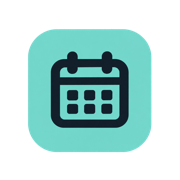
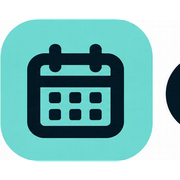
## Rebrand globale CRMEvent completato (colore #0ABAB5 + nuovi loghi) — deploy avviato
**COLORE** ✅ componenti aggiornati: nuovo primario **#0ABAB5** (prima #81D8D0), centralizzato in `tailwind.config.js` (token `tiffany.*` → copre tutte le classi `*-tiffany-*` in tutta l'app, pubblica + autenticata + Super Admin) e in `index.css` (CSS vars `--primary/--ring/--accent`, `::selection`, focus phone-input). Palette derivata: hover #09A6A1, active #088F8A, light #E6F8F7, border #B5EAE8, fg #0A4A47. Aggiornati i pochi hex nei grafici (Dashboard, Support). Verde/rosso/arancio funzionali intatti.

**LOGHI** ✅ asset sostituiti (usati as-is, senza ricolorazione): logo fondo bianco → `logo-crmevent.png` + `logo-footer-light.png`; logo fondo nero → `logo-crmevent-dark.png` + `logo-footer-dark.png`.

**FAVICON** ✅ aggiornata: non essendo stato fornito un file favicon dedicato, il simbolo (icona calendario teal) è stato ricavato ritagliando l'icona dal logo → `favicon.ico` (16/32/48), `favicon-16/32/48/192/512.png`, `apple-touch-icon.png`, `icon-crmevent.png`. Cache-busting `?v=4`. `theme-color` (index.html + manifest) → #0ABAB5.

**EMAIL** ✅ aggiornate (solo branding colore+logo, nessun tocco a contenuti/trigger/destinatari/funnel): `brevo_funnel.py`, `email_utils.py`, `server.py`, `email-templates/prospect-email-1.html`.

**PDF/IMMAGINI** ✅ aggiornati: `social_creative.py` (RGB brand + `_LOGO_PATH` nuovo logo). Nessun logo Evento/Organizzazione toccato.
[…]

diff --git a/frontend/public/email-templates/prospect-email-1.html b/frontend/public/email-templates/prospect-email-1.html
@@ -18,11 +18,11 @@
 <p style="margin:0 0 12px 0;">Staff e volontari su WhatsApp.<br/>Sponsor nelle email.<br/>Turni su Excel.<br/>Hotel e pasti su un altro file.<br/>Briefing e documenti sparsi nelle cartelle.</p>
 <p style="margin:0 0 12px 0;">È proprio da questa situazione che nasce <strong>CRMEvent</strong>.</p>
 <p style="margin:0 0 8px 0;">Un unico spazio pensato per chi organizza eventi sportivi, dove gestire:</p>
-<p style="margin:0 0 16px 0;color:#147D74;font-weight:600;">Eventi · Staff · Volontari · Team e turni · Sponsor e partner · Ospitalità · Attività · Documenti e briefing</p>
+<p style="margin:0 0 16px 0;color:#088F8A;font-weight:600;">Eventi · Staff · Volontari · Team e turni · Sponsor e partner · Ospitalità · Attività · Documenti e briefing</p>
 <p style="margin:0 0 20px 0;">L'obiettivo è semplice: avere le informazioni dell'evento organizzate e accessibili quando servono.</p>
 <p style="margin:0 0 20px 0;font-weight:600;">Vuoi vedere come funziona?</p></td></tr>
-<tr><td align="center" style="padding:4px 32px 8px 32px;"><a href="https://crmevent.it/demo?utm_source=brevo&utm_medium=email&utm_campaign=prospect&utm_content=email1" style="display:inline-block;background:#147D74;color:#ffffff;text-decoration:none;font-weight:700;font-size:16px;padding:14px 32px;border-radius:999px;">GUARDA LA DEMO</a></td></tr>
+<tr><td align="center" style="padding:4px 32px 8px 32px;"><a href="https://crmevent.it/demo?utm_source=brevo&utm_medium=email&utm_campaign=prospect&utm_content=email1" style="display:inline-block;background:#088F8A;color:#ffffff;text-decoration:none;font-weight:700;font-size:16px;padding:14px 32px;border-radius:999px;">GUARDA LA DEMO</a></td></tr>
 <tr><td align="center" style="padding:0 32px 20px 32px;font-size:13px;line-height:1.5;color:#6b7280;">Una panoramica concreta di CRMEvent e di come può aiutarti nell'organizzazione del prossimo evento.</td></tr>
 <tr><td style="padding:0 32px 28px 32px;font-size:15px;color:#374151;"><p style="margin:0;">A presto,<br/><strong>CRMEvent</strong></p></td></tr>
-<tr><td style="padding:18px 32px;background:#0f172a;color:#cbd5e1;font-size:12px;line-height:1.6;"><strong style="color:#ffffff;">CRMEvent</strong><br/><a href="https://crmevent.it" style="color:#5eead4;text-decoration:none;">crmevent.it</a><br/>Ricevi questa email come organizzatore di eventi sportivi. Se non desideri più ricevere le nostre comunicazioni puoi <a href="{{ unsubscribe }}" style="color:#5eead4;">disiscriverti qui</a>.<br/>{{ contact.EMAIL }}</td></tr>
+<tr><td style="padding:18px 32px;background:#0f172a;color:#cbd5e1;font-size:12px;line-height:1.6;"><strong style="color:#ffffff;">CRMEvent</strong><br/><a href="https://crmevent.it" style="color:#0ABAB5;text-decoration:none;">crmevent.it</a><br/>Ricevi questa email come organizzatore di eventi sportivi. Se non desideri più ricevere le nostre comunicazioni puoi <a href="{{ unsubscribe }}" style="color:#0ABAB5;">disiscriverti qui</a>.<br/>{{ contact.EMAIL }}</td></tr>
 </table></td></tr></table></body></html>

diff --git a/frontend/public/index.html b/frontend/public/index.html
@@ -6,7 +6,7 @@
         <script type="text/javascript" src="https://embeds.iubenda.com/widgets/a411033f-bef4-4836-94d4-8a0d2697f51f.js"></script>
         <meta charset="utf-8" />
         <meta name="viewport" content="width=device-width, initial-scale=1" />
-        <meta name="theme-color" content="#81D8D0" />
+        <meta name="theme-color" content="#0ABAB5" />
         <meta name="description" content="Gestisci eventi, sponsor, staff, volontari, team, turni e attività con CRMEvent. Tutto in un'unica piattaforma." />
         <link rel="canonical" href="https://crmevent.it/" />
         <meta property="og:type" content="website" />
@@ -17,11 +17,11 @@
         <meta property="og:image" content="https://crmevent.it/logo-crmevent.png" />
         <meta name="twitter:card" content="summary_large_image" />
         <link rel="manifest" href="%PUBLIC_URL%/manifest.webmanifest" />
-        <link rel="icon" type="image/png" sizes="192x192" href="%PUBLIC_URL%/favicon-192.png" />
-        <link rel="icon" href="%PUBLIC_URL%/favicon.ico" sizes="any" />
-        <link rel="icon" type="image/png" sizes="32x32" href="%PUBLIC_URL%/favicon-32.png" />
-        <link rel="icon" type="image/png" sizes="16x16" href="%PUBLIC_URL%/favicon-16.png" />
-        <link rel="apple-touch-icon" href="%PUBLIC_URL%/apple-touch-icon.png" />
+        <link rel="icon" type="image/png" sizes="192x192" href="%PUBLIC_URL%/favicon-192.png?v=4" />
+        <link rel="icon" href="%PUBLIC_URL%/favicon.ico?v=4" sizes="any" />
+        <link rel="icon" type="image/png" sizes="32x32" href="%PUBLIC_URL%/favicon-32.png?v=4" />
+        <link rel="icon" type="image/png" sizes="16x16" href="%PUBLIC_URL%/favicon-16.png?v=4" />
+        <link rel="apple-touch-icon" href="%PUBLIC_URL%/apple-touch-icon.png?v=4" />
         <link rel="preconnect" href="https://fonts.googleapis.com" />
         <link rel="preconnect" href="https://fonts.gstatic.com" crossorigin />
         <link href="https://fonts.googleapis.com/css2?family=Inter:wght@600&display=swap" rel="stylesheet" />

diff --git a/frontend/src/index.css b/frontend/src/index.css
@@ -11,19 +11,19 @@
     --card-foreground: 222 47% 11%;
     --popover: 0 0% 100%;
     --popover-foreground: 222 47% 11%;
-    --primary: 174 51% 68%;
-    --primary-foreground: 168 70% 17%;
+    --primary: 178 90% 38%;
+    --primary-foreground: 0 0% 100%;
     --secondary: 210 40% 96%;
     --secondary-foreground: 222 47% 11%;
     --muted: 210 40% 96%;
     --muted-foreground: 215 16% 47%;
-    --accent: 174 55% 94%;
-    --accent-foreground: 168 70% 17%;
+    --accent: 178 55% 95%;
+    --accent-foreground: 178 75% 17%;
     --destructive: 0 84% 60%;
     --destructive-foreground: 0 0% 98%;
     --border: 214 32% 91%;
     --input: 214 32% 91%;
-    --ring: 174 51% 68%;
+    --ring: 178 90% 38%;
     --radius: 0.65rem;
   }
 }
@@ -46,8 +46,8 @@ h1, h2, h3, h4, .font-display {
 }
 
 ::selection {
-  background: #81D8D0;
-  color: #0F4C45;
+  background: #0ABAB5;
+  color: #ffffff;
 }
 
 ::-webkit-scrollbar { width: 8px; height: 8px; }
@@ -63,5 +63,5 @@ h1, h2, h3, h4, .font-display {
 
 /* react-phone-number-input — allineato allo stile input CRMEvent */
 .phone-input .PhoneInputInput{height:2.5rem;border:1px solid #e2e8f0;border-radius:0.375rem;padding:0 0.75rem;font-size:0.875rem;outline:none;background:#fff;}
-.phone-input .PhoneInputInput:focus{border-color:#5eead4;box-shadow:0 0 0 2px rgba(94,234,212,.3);}
+.phone-input .PhoneInputInput:focus{border-color:#0ABAB5;box-shadow:0 0 0 2px rgba(10,186,181,.3);}
 .phone-input .PhoneInputCountry{margin-right:0.5rem;padding:0 0.5rem;height:2.5rem;border:1px solid #e2e8f0;border-radius:0.375rem;background:#fff;}

diff --git a/frontend/src/pages/Register.jsx b/frontend/src/pages/Register.jsx
@@ -63,7 +63,7 @@ export default function Register() {
 
       <div className="hidden lg:flex flex-col justify-between w-1/2 bg-black p-12 relative overflow-hidden">
         <div className="absolute -right-24 -top-24 w-96 h-96 rounded-full bg-tiffany/20 blur-3xl" />
-        <Link to="/" className="relative flex items-center gap-3"><img src="/logo-crmevent-dark.png?v=2" alt="CRMEvent" className="h-20 w-auto" /></Link>
+        <Link to="/" className="relative flex items-center gap-3"><img src="/logo-crmevent-dark.png?v=4" alt="CRMEvent" className="h-20 w-auto" /></Link>
         <div className="relative">
           <h1 className="font-display text-4xl font-bold text-white leading-tight">Crea la tua organizzazione su CRMEvent.</h1>
           <div className="mt-6 space-y-3 text-slate-200">
@@ -76,7 +76,7 @@ export default function Register() {
 
       <div className="flex-1 flex items-center justify-center p-6 bg-white overflow-y-auto">
         <div className="w-full max-w-md py-8">
-          <div className="lg:hidden flex items-center justify-center mb-8"><Link to="/"><img src="/logo-crmevent.png?v=2" alt="CRMEvent" className="h-14 w-auto" /></Link></div>
+          <div className="lg:hidden flex items-center justify-center mb-8"><Link to="/"><img src="/logo-crmevent.png?v=4" alt="CRMEvent" className="h-14 w-auto" /></Link></div>
           <h2 className="font-display text-2xl font-bold text-slate-900">Inizia gratuitamente</h2>
           <p className="text-sm text-slate-500 mb-6">Crea il tuo account organizzatore e ricevi 100 crediti CRMEvent.</p>
 

diff --git a/frontend/src/pages/Dashboard.jsx b/frontend/src/pages/Dashboard.jsx
@@ -50,8 +50,8 @@ export default function Dashboard() {
   if (!data) return <div className="text-slate-400">Caricamento dashboard...</div>;
 
   const pipeline = data.pipeline_chart.map((p) => ({ ...p, name: FASE_LABEL[p.fase] || p.fase }));
-  const FASE_COLORS = { prospect: "#94A3B8", contattato: "#0EA5E9", proposta_inviata: "#F59E0B", in_trattativa: "#81D8D0", confermato: "#10B981", perso: "#EF4444" };
-  const PIE_COLORS = ["#81D8D0", "#0EA5E9", "#F59E0B", "#10B981", "#94A3B8"];
+  const FASE_COLORS = { prospect: "#94A3B8", contattato: "#0EA5E9", proposta_inviata: "#F59E0B", in_trattativa: "#0ABAB5", confermato: "#10B981", perso: "#EF4444" };
+  const PIE_COLORS = ["#0ABAB5", "#0EA5E9", "#F59E0B", "#10B981", "#94A3B8"];
 
   return (
     <div className="animate-fade-up space-y-6">
@@ -115,7 +115,7 @@ export default function Dashboard() {
               <YAxis tick={{ fontSize: 11, fill: "#64748B" }} axisLine={false} tickLine={false} />
               <Tooltip cursor={{ fill: "#F8FAFC" }} contentStyle={{ borderRadius: 10, border: "1px solid #E2E8F0", fontSize: 12 }} />
               <Bar dataKey="count" radius={[6, 6, 0, 0]} name="Trattative">
-                {pipeline.map((p) => <Cell key={p.fase} fill={FASE_COLORS[p.fase] || "#81D8D0"} />)}
+                {pipeline.map((p) => <Cell key={p.fase} fill={FASE_COLORS[p.fase] || "#0ABAB5"} />)}
               </Bar>
             </BarChart>
           </ResponsiveContainer>

diff --git a/frontend/src/pages/Login.jsx b/frontend/src/pages/Login.jsx
@@ -46,7 +46,7 @@ export default function Login() {
         <div className="absolute -right-24 -top-24 w-96 h-96 rounded-full bg-tiffany/20 blur-3xl" />
         <div className="absolute -left-16 bottom-0 w-80 h-80 rounded-full bg-tiffany/10 blur-3xl" />
         <div className="relative flex items-center gap-3">
-          <img src="/logo-crmevent-dark.png?v=2" alt="CRMEvent" className="h-20 w-auto" />
+          <img src="/logo-crmevent-dark.png?v=4" alt="CRMEvent" className="h-20 w-auto" />
         </div>
         <div className="relative">
           <h1 className="font-display text-4xl font-bold text-white leading-tight">La piattaforma operativa per eventi, staff e volontari.</h1>
@@ -58,7 +58,7 @@ export default function Login() {
       <div className="flex-1 flex items-center justify-center p-6 bg-white">
         <div className="w-full max-w-sm">
           <div className="lg:hidden flex items-center justify-center mb-8">
-            <img src="/logo-crmevent.png?v=2" alt="CRMEvent" className="h-16 sm:h-14 w-auto" />
+            <img src="/logo-crmevent.png?v=4" alt="CRMEvent" className="h-16 sm:h-14 w-auto" />
           </div>
           <h2 className="font-display text-2xl font-bold text-slate-900">
             {mode === "login" ? "Accedi" : "Recupera password"}

diff --git a/frontend/src/pages/Support.jsx b/frontend/src/pages/Support.jsx
@@ -157,7 +157,7 @@ function Insights() {
         <div className="bg-white border border-slate-200 rounded-xl p-4">
           <h3 className="font-semibold text-slate-800 mb-3">Categorie più richieste</h3>
           <ResponsiveContainer width="100%" height={220}>
-            <BarChart data={d.categorie_piu_richieste.slice(0, 8)}><CartesianGrid strokeDasharray="3 3" vertical={false} /><XAxis dataKey="categoria" tick={{ fontSize: 11 }} /><YAxis allowDecimals={false} tick={{ fontSize: 11 }} /><Tooltip /><Bar dataKey="count" fill="#81D8D0" radius={[4, 4, 0, 0]} /></BarChart>
+            <BarChart data={d.categorie_piu_richieste.slice(0, 8)}><CartesianGrid strokeDasharray="3 3" vertical={false} /><XAxis dataKey="categoria" tick={{ fontSize: 11 }} /><YAxis allowDecimals={false} tick={{ fontSize: 11 }} /><Tooltip /><Bar dataKey="count" fill="#0ABAB5" radius={[4, 4, 0, 0]} /></BarChart>
           </ResponsiveContainer>
         </div>
         <div className="bg-white border border-slate-200 rounded-xl p-4">

diff --git a/frontend/src/pages/ResetPassword.jsx b/frontend/src/pages/ResetPassword.jsx
@@ -29,7 +29,7 @@ export default function ResetPassword() {
   return (
     <div className="min-h-screen flex items-center justify-center bg-slate-50 p-6">
       <form onSubmit={submit} className="w-full max-w-sm bg-white border border-slate-200 rounded-xl p-8 shadow-sm space-y-4">
-        <div className="mb-2"><img src="/logo-crmevent.png?v=2" alt="CRMEvent" className="h-8 w-auto" /></div>
+        <div className="mb-2"><img src="/logo-crmevent.png?v=4" alt="CRMEvent" className="h-8 w-auto" /></div>
         <h2 className="font-display text-xl font-bold text-slate-900">Nuova password</h2>
         <div className="space-y-1.5"><Label>Nuova password</Label><Input type="password" value={pw} onChange={(e) => setPw(e.target.value)} data-testid="reset-pw" required /></div>
         <div className="space-y-1.5"><Label>Conferma password</Label><Input type="password" value={pw2} onChange={(e) => setPw2(e.target.value)} data-testid="reset-pw2" required /></div>

diff --git a/frontend/src/pages/CompleteOrg.jsx b/frontend/src/pages/CompleteOrg.jsx
@@ -39,7 +39,7 @@ export default function CompleteOrg() {
   return (
     <div className="min-h-screen flex items-center justify-center p-6 bg-slate-50">
       <div className="w-full max-w-md bg-white rounded-2xl border border-slate-200 shadow-xl p-8">
-        <Link to="/"><img src="/logo-crmevent.png?v=2" alt="CRMEvent" className="h-12 w-auto mb-6" /></Link>
+        <Link to="/"><img src="/logo-crmevent.png?v=4" alt="CRMEvent" className="h-12 w-auto mb-6" /></Link>
         <div className="inline-flex items-center gap-2 rounded-full bg-tiffany-light text-tiffany-fg px-3 py-1 text-xs font-semibold mb-4"><Sparkles className="w-3.5 h-3.5" />Ultimo passaggio</div>
         <h1 className="font-display text-2xl font-bold text-slate-900">Crea la tua organizzazione</h1>
         <p className="text-sm text-slate-500 mt-1 mb-6">Ciao {user.name}, dai un nome alla tua organizzazione per iniziare la prova gratuita di 14 giorni.</p>

diff --git a/frontend/src/pages/Pricing.jsx b/frontend/src/pages/Pricing.jsx
@@ -98,7 +98,7 @@ export default function Pricing() {
     <div className="bg-white text-slate-900" data-testid="pricing-page">
       <header className="sticky top-0 z-50 bg-white/85 backdrop-blur-md border-b border-slate-100">
         <div className="max-w-6xl mx-auto px-6 h-16 flex items-center justify-between">
-          <Link to="/" data-testid="pricing-logo"><img src="/logo-crmevent.png?v=2" alt="CRMEvent" className="h-14 sm:h-16 w-auto" /></Link>
+          <Link to="/" data-testid="pricing-logo"><img src="/logo-crmevent.png?v=4" alt="CRMEvent" className="h-14 sm:h-16 w-auto" /></Link>
           <nav className="hidden lg:flex items-center gap-7">
             <Link to="/#funzionalita" className="text-sm font-medium text-slate-600 hover:text-slate-900">Funzionalità</Link>
             <Link to="/prezzi" className="text-sm font-semibold text-slate-900">Crediti</Link>

diff --git a/frontend/src/pages/CompleteProfile.jsx b/frontend/src/pages/CompleteProfile.jsx
@@ -35,7 +35,7 @@ export default function CompleteProfile() {
   return (
     <div className="min-h-screen flex items-center justify-center p-6 bg-slate-50">
       <div className="w-full max-w-md bg-white rounded-2xl border border-slate-200 shadow-xl p-8">
-        <img src="/logo-crmevent.png?v=2" alt="CRMEvent" className="h-12 w-auto mb-6" />
+        <img src="/logo-crmevent.png?v=4" alt="CRMEvent" className="h-12 w-auto mb-6" />
         <div className="inline-flex items-center gap-2 rounded-full bg-tiffany-light text-tiffany-fg px-3 py-1 text-xs font-semibold mb-4"><Phone className="w-3.5 h-3.5" />Ultimo passaggio</div>
         <h1 className="font-display text-2xl font-bold text-slate-900">Completa il tuo profilo</h1>
         <p className="text-sm text-slate-500 mt-1 mb-6">Ciao {user.name}, per continuare inserisci il tuo numero di cellulare.</p>

diff --git a/frontend/src/pages/LandingPage.jsx b/frontend/src/pages/LandingPage.jsx
@@ -180,7 +180,7 @@ export default function LandingPage() {
       {/* Header */}
       <header className="sticky top-0 z-50 bg-white/85 backdrop-blur-md border-b border-slate-100 pt-[env(safe-area-inset-top)]">
         <div className="max-w-6xl mx-auto px-6 min-h-[4.75rem] py-2.5 flex items-center justify-between">
-          <Link to="/" data-testid="landing-logo"><img src="/logo-crmevent.png?v=2" alt="CRMEvent" className="h-14 sm:h-16 w-auto" /></Link>
+          <Link to="/" data-testid="landing-logo"><img src="/logo-crmevent.png?v=4" alt="CRMEvent" className="h-14 sm:h-16 w-auto" /></Link>
           <nav className="hidden lg:flex items-center gap-7">
             {NAV.map(([l, id]) => <button key={id} onClick={() => scrollTo(id)} className="text-sm font-medium text-slate-600 hover:text-slate-900 transition-colors">{l}</button>)}
           </nav>
